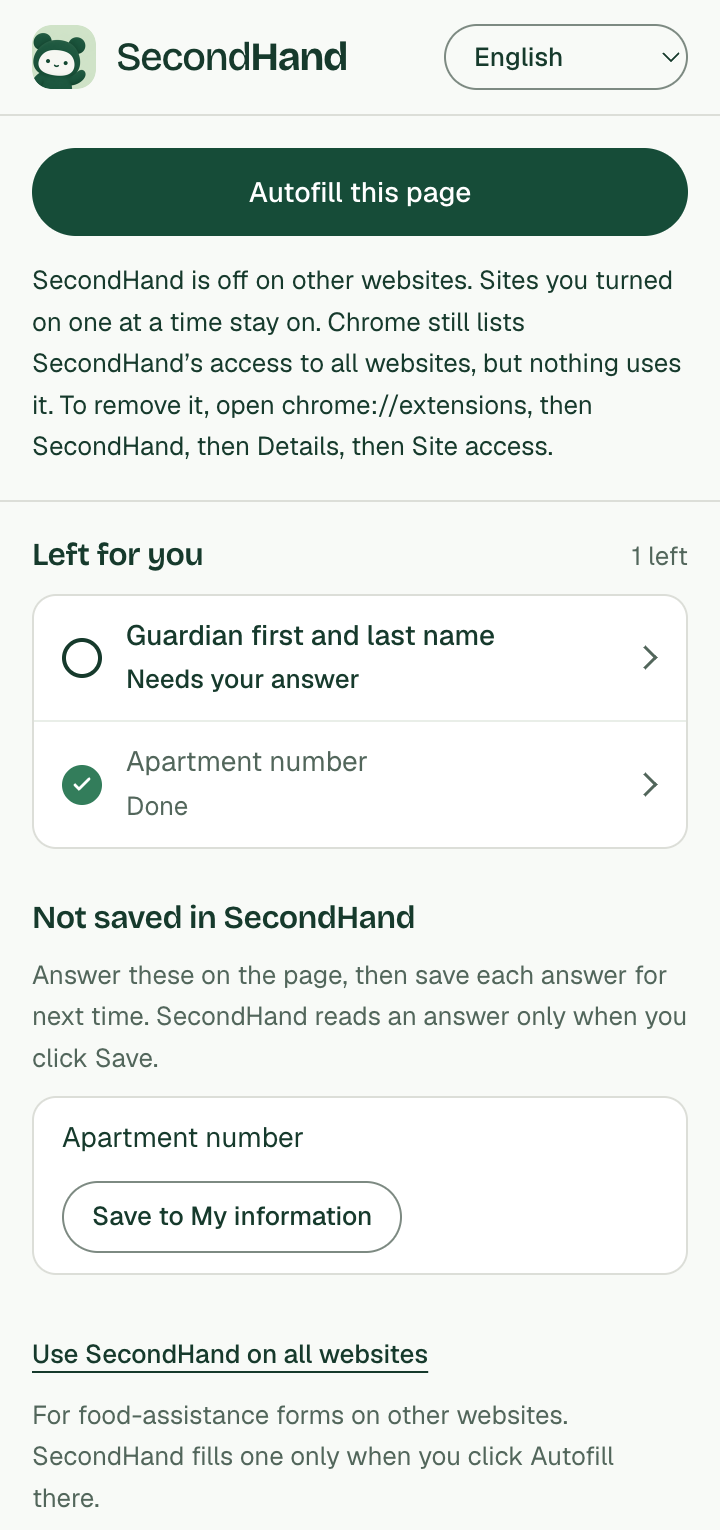
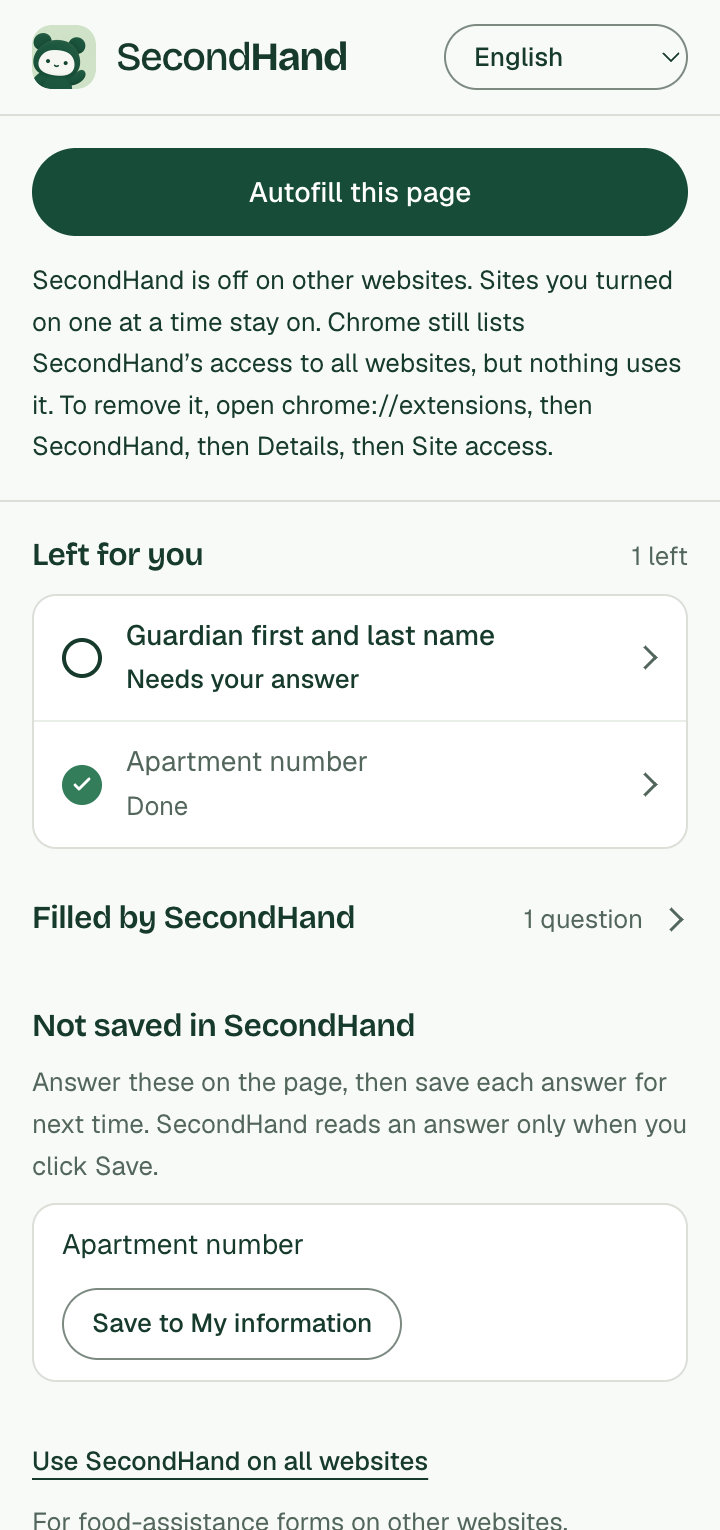
feat: name what Autofill filled on other websites
On a site other than Iowa's, "Filled 5" was only a number, so there was
no checking the fill the way Iowa's checklist allows. The side panel now
has "Filled by SecondHand", folded away under its heading, with each
filled question in the form's own words and a guess marked "Guessed,
check it". The worker's result names them from the plan it filled from;
no answers travel with the names.

diff --git a/extension/panel.js b/extension/panel.js
@@ -348,9 +348,12 @@
     // The questions Autofill left for the reader, and which of them the link under the status goes to next.
     let left = [];
     let leftCursor = 0;
-    // On a page with no checklist, those questions by name, as the worker read them from the page.
+    // On a page with no checklist, those questions by name, as the worker read them from the page, and the
+    // questions Autofill filled there.
     let named = [];
     let namedSignature = '';
+    let filledNames = [];
+    let filledSignature = '';
     let site = null;
     let page = null;
     // The questions the last Autofill on this page could have filled but had no saved answer for.
@@ -494,13 +497,14 @@
       renderSummary();
     }
     function clearPage() {
-      fillable = false; autopilot = false; told = false; ran = false; left = []; leftCursor = 0; named = []; site = null; page = null; notSaved = []; checklistSignature = '';
+      fillable = false; autopilot = false; told = false; ran = false; left = []; leftCursor = 0; named = []; filledNames = []; site = null; page = null; notSaved = []; checklistSignature = '';
       savable = []; savableSignature = '';
       $('page-checklist').replaceChildren();
       $('checklist-section').hidden = true;
       $('save-list').replaceChildren();
       $('save-section').hidden = true;
       renderLeft();
+      renderFilled();
       resetQuestions();
       resetSummary();
     }
@@ -575,6 +579,26 @@
       }
       $('left-section').hidden = !named.length;
     }
+    // The questions Autofill filled on a page with no checklist, by name, with guesses marked. Folded away by default.
+    function renderFilled() {
+      const signature = JSON.stringify([language, filledNames]);
+      if (signature !== filledSignature) {
+        filledSignature = signature;
+        $('filled-list').replaceChildren(...filledNames.map(item => {
+          const row = document.createElement('div');
+          row.className = 'checklist-item info complete';
+          const mark = document.createElement('span'); mark.className = 'checklist-mark'; mark.setAttribute('aria-hidden', 'true'); mark.append(checkMark());
+          const copy = document.createElement('span'); copy.className = 'checklist-copy';
+          const label = document.createElement('span'); label.className = 'checklist-label'; label.dir = 'auto'; label.textContent = item.label || t('left.unnamed');
+          const detail = document.createElement('span'); detail.className = 'checklist-detail'; detail.textContent = t(item.guessed ? 'filled.guessed' : 'checklist.complete');
+          copy.append(label, detail);
+          row.append(mark, copy);
+          return row;
+        }));
+        $('filled-summary').textContent = filledNames.length ? t('questions.count', { count: filledNames.length }) : '';
+      }
+      $('filled-section').hidden = !filledNames.length;
+    }
     // One row per question with no saved answer: its own words, then Save to My information once the page holds an answer.
     function renderSaves() {
       const signature = JSON.stringify([language, savable]);
@@ -631,6 +655,9 @@
       const answered = new Set(savable.filter(item => item.answered).map(item => item.id));
       named = ran && !listed.length ? left.map(key => ({ key, label: names.get(key) || '', done: answered.has(key) })) : [];
       renderLeft();
+      filledNames = ran && !listed.length && Array.isArray(result.filledQuestions)
+        ? result.filledQuestions.filter(item => typeof item?.label === 'string').slice(0, 80).map(item => ({ label: fixedText(item.label.trim(), 200), guessed: item.guessed === true })) : [];
+      renderFilled();
       const loading = target?.status === 'loading';
       if (site?.enabled && !site.ready) show({ key: loading ? 'panel.waitingLoad' : 'panel.reloadToRead' });
       // What Autofill reported, with its count of what is left kept current as the reader answers.
@@ -1075,7 +1102,7 @@
     function relabel() {
       applyStatic();
       $('language').value = language;
-      if (page) { renderChecklist(); renderLeft(); renderSaves(); }
+      if (page) { renderChecklist(); renderLeft(); renderFilled(); renderSaves(); }
       renderStatus();
       renderDesktop();
       resetQuestions();

diff --git a/extension/background.js b/extension/background.js
@@ -933,7 +933,8 @@ async function fillPlan(tabId, url, frames, { prefix = false, guard = () => {}, 
     }
     let filled = 0, placedByLaya = 0;
     // `left` names what needYou lists, for the side panel: each key with the page's own label for its question.
-    const needYou = [], left = [], savable = [];
+    // `filledQuestions` names what was filled the same way, and whether it was a guess.
+    const needYou = [], left = [], filledQuestions = [], savable = [];
     for (const frame of initial) {
       const { frameId } = frame;
       let { plan, planned } = frame;
@@ -966,6 +967,8 @@ async function fillPlan(tabId, url, frames, { prefix = false, guard = () => {}, 
         const placed = assignments.filter(({ id }) => result.filled.includes(id) && !result.rejected.includes(id));
         if (!placed.length) break;
         filled += placed.length;
+        const named = new Map([...plan.unmatched, ...plan.matched].map(field => [field.id, typeof field.label === 'string' ? field.label.trim().slice(0, LABEL_LIMIT) : '']));
+        for (const { id, guessed } of placed) filledQuestions.push({ label: named.get(id) || '', guessed: guessed === true });
         placedByLaya += placed.filter(({ id }) => fromLaya.has(`${frameId}|${id}`)).length;
         plan = await planGeneral(tabId, frameId, prefix);
         planned = ruleAssignments(plan);
@@ -986,7 +989,7 @@ async function fillPlan(tabId, url, frames, { prefix = false, guard = () => {}, 
           label: typeof field.label === 'string' ? field.label.trim().slice(0, LABEL_LIMIT) : '' });
       }
     }
-    return { filled, needYou, left, savable, laya: placedByLaya, reason: prepared.reason };
+    return { filled, needYou, left, filledQuestions: filledQuestions.slice(0, 80), savable, laya: placedByLaya, reason: prepared.reason };
   } finally { values = null; questionTranslation.forget(); }
 }
 
@@ -1017,11 +1020,11 @@ async function fillSiteOnce(tabId, url, guesses) {
       const hosts = pending.map(frame => new URL(frame.origin).hostname).join(', ');
       return siteResult('waiting', say('worker.formInsideFrames', { hosts }));
     }
-    const { needYou, left, savable, laya: suggested, reason } = await fillPlan(tabId, url, frames, { prefix: true, laya });
+    const { needYou, left, filledQuestions, savable, laya: suggested, reason } = await fillPlan(tabId, url, frames, { prefix: true, laya });
     keepSavable(tabId, url, siteOrigin(url), savable);
     const tally = await tallySite(tabId, frames);
     const filled = tally.rule + tally.guess;
-    return siteResult('done', siteSummary(filled, tally.guess, needYou, tally.next, suggested, reason), { filled, guessed: tally.guess, needYou, left, ...(suggested ? { laya: suggested } : {}) });
+    return siteResult('done', siteSummary(filled, tally.guess, needYou, tally.next, suggested, reason), { filled, guessed: tally.guess, needYou, left, filledQuestions, ...(suggested ? { laya: suggested } : {}) });
   } catch (error) {
     const { state, ...message } = failed(error);
     return siteResult(state, message);
@@ -1032,9 +1035,9 @@ async function fillSiteOnce(tabId, url, guesses) {
 async function fillIowaGeneral(tabId, state, plan, guard, laya = null) {
   const { pageKey } = state.page;
   try {
-    const { filled, needYou, left, savable, laya: suggested, reason } = await fillPlan(tabId, state.url, [{ frameId: 0, plan }], { guard, laya });
+    const { filled, needYou, left, filledQuestions, savable, laya: suggested, reason } = await fillPlan(tabId, state.url, [{ frameId: 0, plan }], { guard, laya });
     keepSavable(tabId, state.url, '', savable);
-    return { state: 'done', filled, needYou, left, ...say('result.thenTodo', { summary: withReason(withLaya(filledSummary(filled, needYou), suggested), reason), todo: { key: GENERAL_TODO, params: {} } }),
+    return { state: 'done', filled, needYou, left, filledQuestions, ...say('result.thenTodo', { summary: withReason(withLaya(filledSummary(filled, needYou), suggested), reason), todo: { key: GENERAL_TODO, params: {} } }),
       todo: english(GENERAL_TODO), todoKey: GENERAL_TODO, todoParams: {}, pageKey, ...(suggested ? { laya: suggested } : {}) };
   } catch (error) {
     return { ...failed(error), filled: 0, needYou: [], pageKey };

diff --git a/extension/strings.js b/extension/strings.js
@@ -134,6 +134,8 @@
     'checklist.rowLabel': '{label}: {status}. Go to this question.',
     'left.title': 'Left for you',
     'left.unnamed': 'A question with no label',
+    'filled.title': 'Filled by SecondHand',
+    'filled.guessed': 'Guessed, check it',
 
     'questions.show': 'Show questions in English',
     'questions.refresh': 'Update the question list',
@@ -473,6 +475,8 @@
     'checklist.rowLabel': '{label}: {status}. Ir a esta pregunta.',
     'left.title': 'Por contestar',
     'left.unnamed': 'Una pregunta sin etiqueta',
+    'filled.title': 'Llenadas por SecondHand',
+    'filled.guessed': 'Sugerida, revísela',
 
     'questions.show': 'Ver las preguntas en español',
     'questions.refresh': 'Actualizar la lista de preguntas',
@@ -809,6 +813,8 @@
     'checklist.rowLabel': '{label}: {status}. Đến câu hỏi này.',
     'left.title': 'Còn lại cho bạn',
     'left.unnamed': 'Một câu hỏi không có nhãn',
+    'filled.title': 'SecondHand đã điền',
+    'filled.guessed': 'Đoán, hãy kiểm tra',
 
     'questions.show': 'Xem các câu hỏi bằng tiếng Việt',
     'questions.refresh': 'Cập nhật danh sách câu hỏi',
@@ -1146,6 +1152,8 @@
     'checklist.rowLabel': '{label}：{status}。前往此问题。',
     'left.title': '留给您的问题',
     'left.unnamed': '没有标签的问题',
+    'filled.title': 'SecondHand 已填写',
+    'filled.guessed': '推测的，请核对',
 
     'questions.show': '用中文显示问题',
     'questions.refresh': '更新问题列表',
@@ -1483,6 +1491,8 @@
     'checklist.rowLabel': '{label} : {status}. Aller à cette question.',
     'left.title': 'Il vous reste',
     'left.unnamed': 'Une question sans libellé',
+    'filled.title': 'Rempli par SecondHand',
+    'filled.guessed': 'Deviné, vérifiez-le',
 
     'questions.show': 'Afficher les questions en français',
     'questions.refresh': 'Mettre à jour la liste des questions',
@@ -1820,6 +1830,8 @@
     'checklist.rowLabel': '{label}: {status}. انتقل إلى هذا السؤال.',
     'left.title': 'المتبقي لك',
     'left.unnamed': 'سؤال بلا تسمية',
+    'filled.title': 'عبّأها SecondHand',
+    'filled.guessed': 'تخمين، راجعه',
 
     'questions.show': 'عرض الأسئلة بالعربية',
     'questions.refresh': 'تحديث قائمة الأسئلة',

diff --git a/extension/panel.css b/extension/panel.css
@@ -67,6 +67,9 @@ footer{border-top:1px solid var(--border);margin-top:12px;padding:12px 0 16px}
 /* The page's questions in the applicant's language. */
 .questions-pending{margin:0 0 8px}
 .checklist-item.info{cursor:default}
+/* The folded list of what was filled: its heading row opens and closes it, and says which with an arrow. */
+details.filled>summary{list-style:none;cursor:pointer;border-radius:8px}details.filled>summary::-webkit-details-marker{display:none}details.filled>summary:focus-visible{outline-offset:4px}
+details.filled>summary>span{display:flex;align-items:center;gap:10px}details.filled>summary>span::after{content:"";width:7px;height:7px;border:solid var(--muted-foreground);border-width:1.5px 1.5px 0 0;transform:rotate(45deg);margin-inline-end:4px}details.filled[open]>summary>span::after{transform:rotate(135deg);margin-top:-4px}
 /* What this page says: key points Chrome writes on this computer. */
 .summary-caveat{color:var(--muted-foreground);margin:0 0 8px}.summary-english{margin:8px 0 0}
 .summary-card{background:#fff;border:1px solid var(--border);border-radius:12px;padding:4px 14px}

diff --git a/extension/panel.html b/extension/panel.html
@@ -64,6 +64,11 @@
         <div class="fields-heading"><h2 id="left-title" data-i18n="left.title"></h2><span id="left-summary"></span></div>
         <div id="left-list" class="page-checklist"></div>
       </section>
+      <!-- What Autofill filled on a page with no checklist, folded away until the reader wants to check the names. -->
+      <details id="filled-section" class="checklist-section filled" hidden>
+        <summary class="fields-heading"><h2 id="filled-title" data-i18n="filled.title"></h2><span id="filled-summary"></span></summary>
+        <div id="filled-list" class="page-checklist"></div>
+      </details>
       <section id="save-section" class="checklist-section" hidden aria-labelledby="save-title">
         <div class="fields-heading"><h2 id="save-title" data-i18n="save.title"></h2></div>
         <p class="save-hint" data-i18n="save.hint"></p>
